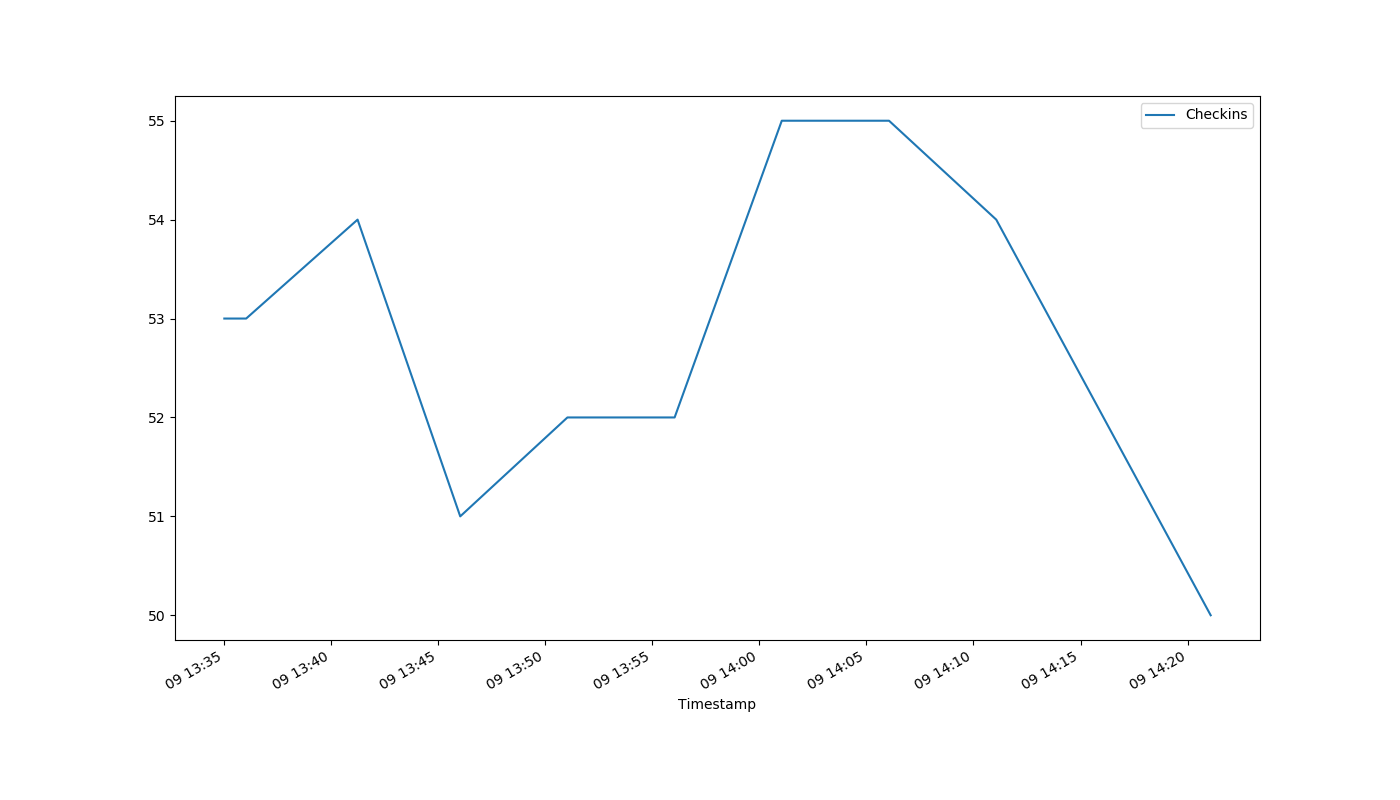
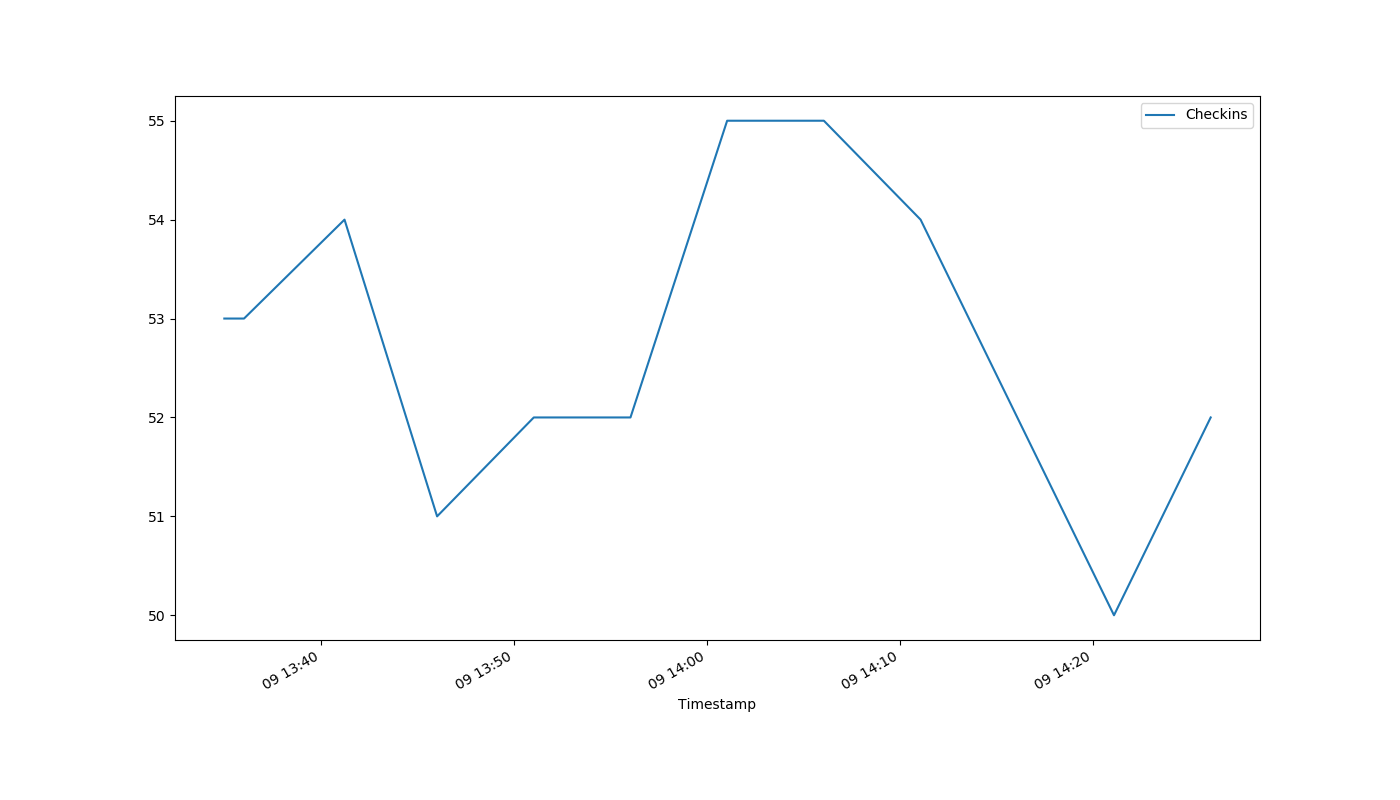
auto-Aug-09-14:27:14

diff --git a/index.html b/index.html
@@ -1,1 +1,1 @@
-<!DOCTYPE html><html><head><meta http-equiv="refresh" content="30"><link rel='stylesheet' href='holmcurrent.css'></head><body><p id='count'>50</p><div id='graph-wrap'><img id='graph' src='holmgraph-Aug-09.png'></div><p id='updated'>Last updated 14:21:11 / 14:21:04</p></body></html>
+<!DOCTYPE html><html><head><meta http-equiv="refresh" content="30"><link rel='stylesheet' href='holmcurrent.css'></head><body><p id='count'>52</p><div id='graph-wrap'><img id='graph' src='holmgraph-Aug-09.png'></div><p id='updated'>Last updated 14:26:11 / 14:26:04</p></body></html>
